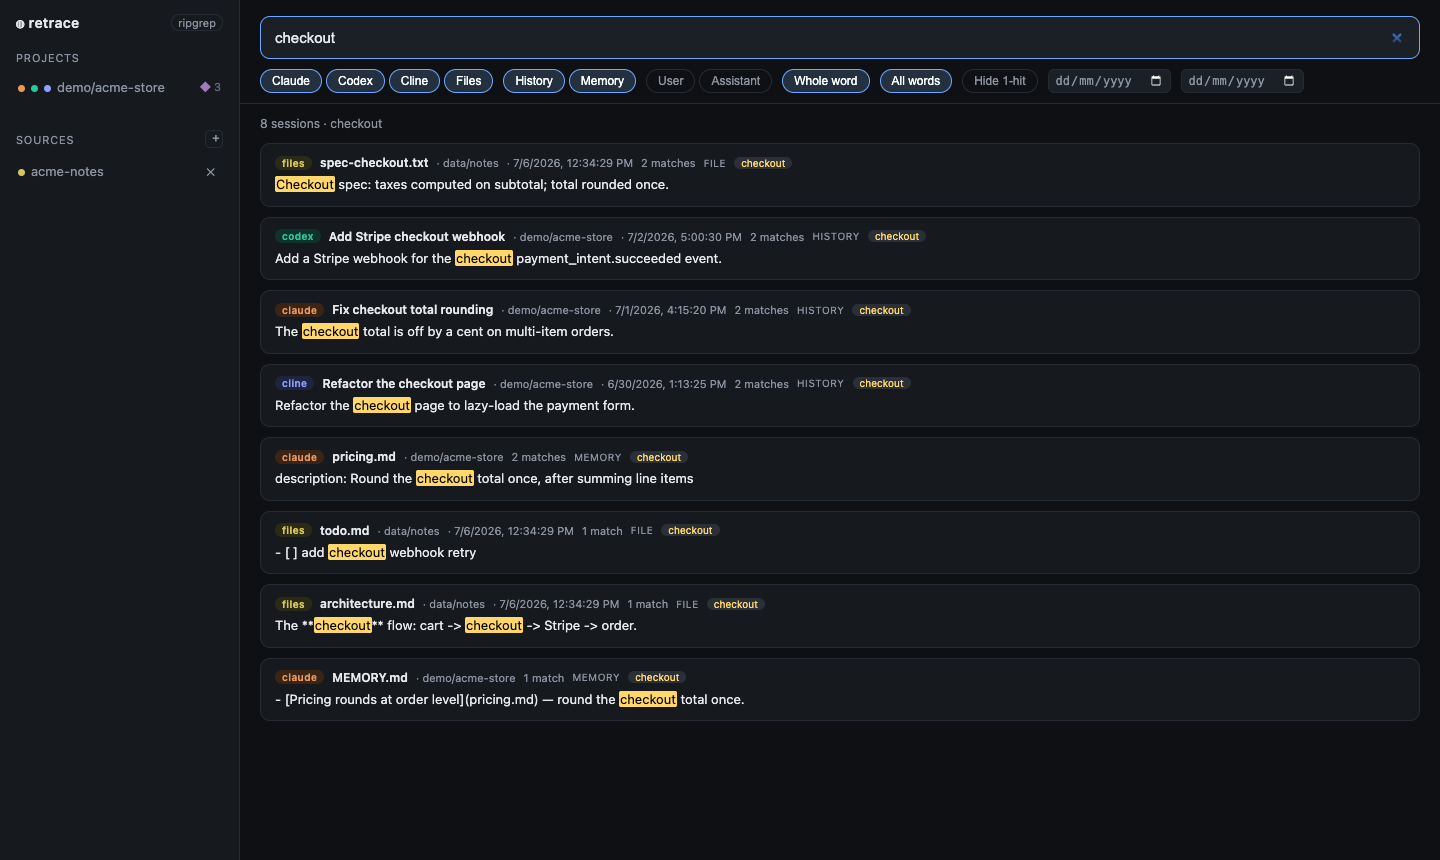
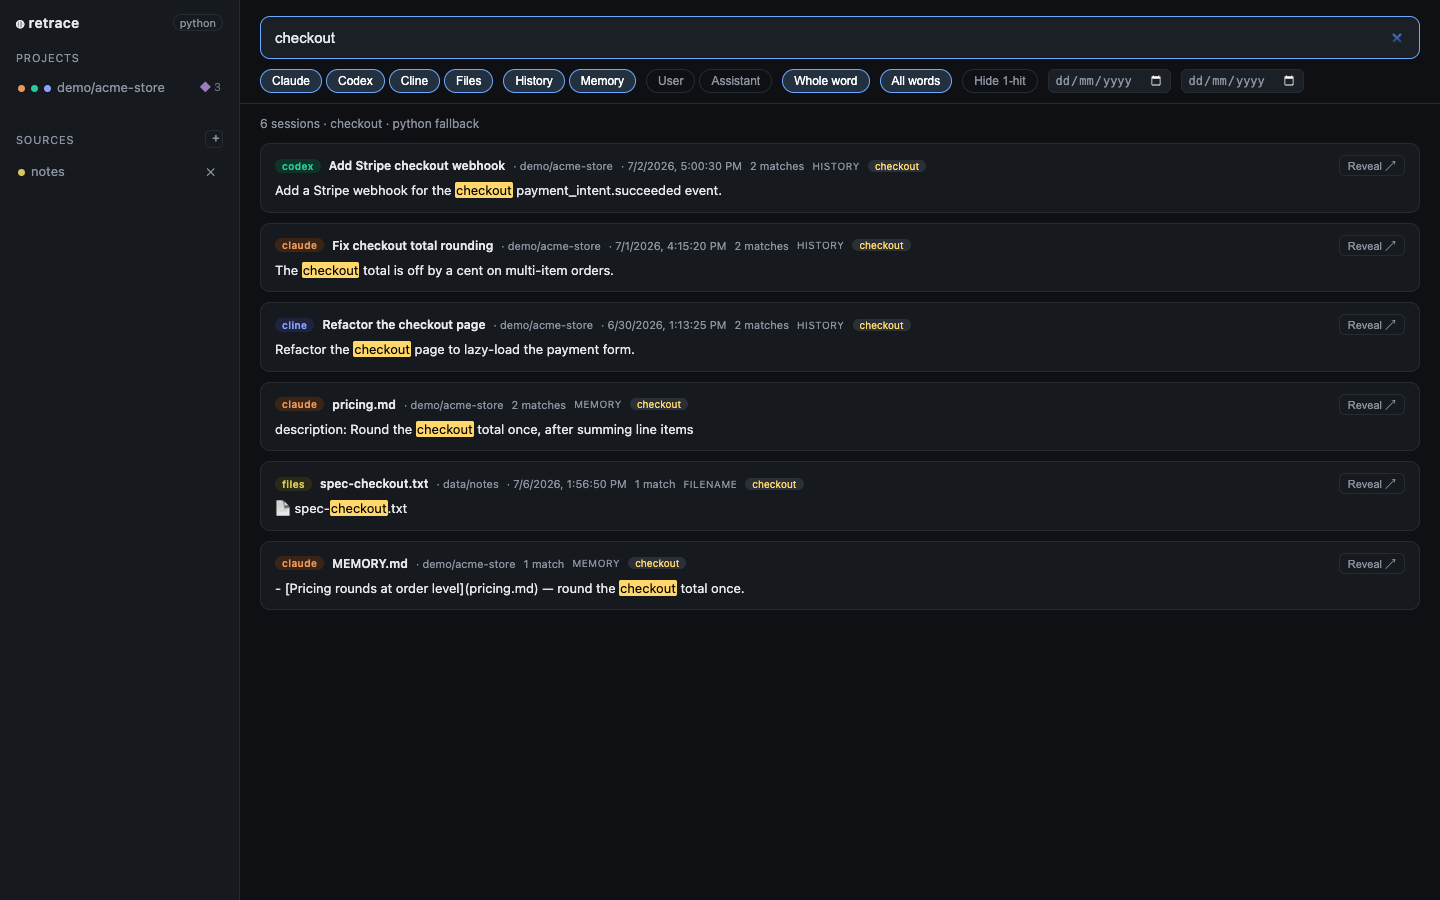
docs: document Reveal on all results + refresh demo screenshot
- README: Reveal button now covers every result (transcript/memory/file)
- Regenerate demo screenshot showing Reveal on all four providers

diff --git a/README.md b/README.md
@@ -70,7 +70,7 @@ Missing tools are simply skipped — run it with whatever you have installed.
 - **Whole-word** matching (toggle off for substring) and **multi-keyword AND/OR**.
 - **Grouped by session/file**, ranked by relevance; **Hide 1-hit** to drop incidental mentions.
 - Click a result → full **transcript** (AI) or **file preview** (folders), with matches highlighted.
-- **Reveal ↗** button on file results — opens Finder / Explorer at the file so you can open it in any app you like (retrace never opens or edits it).
+- **Reveal ↗** button on every result — opens Finder / Explorer at the underlying file (AI transcript `.jsonl`, memory `.md`, or a folder-source file) so you can open it in any app you like (retrace never opens or edits it).
 - **Add/remove folder sources** from the UI. Content is searched for text files; **all files are findable by name** (so `.docx`/`.xlsx`/`.pdf` show up by filename).
 
 ## Custom folder sources